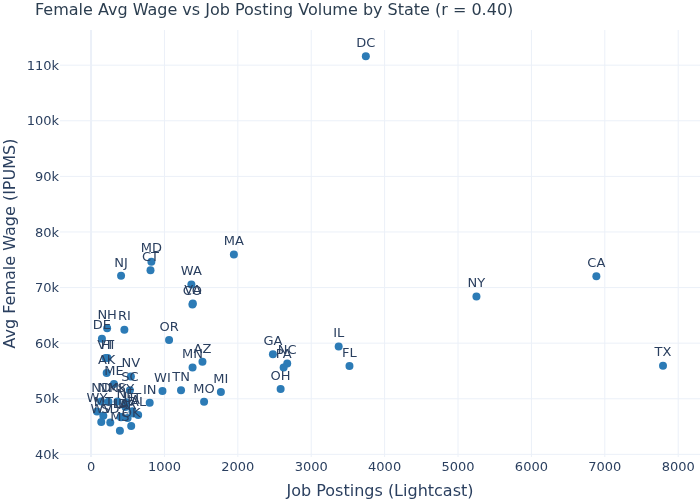
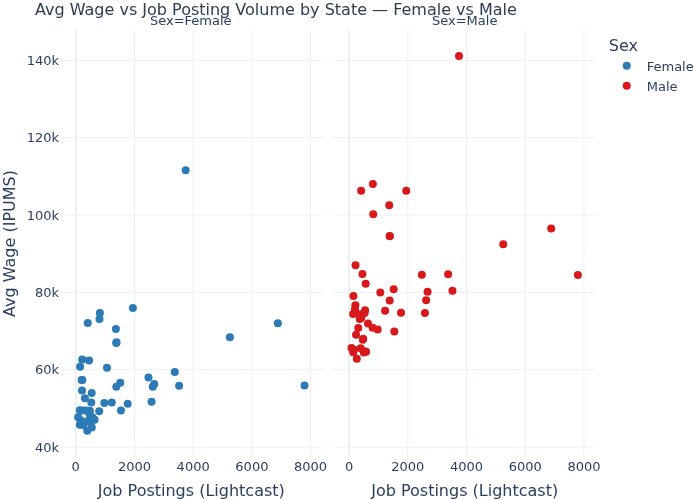
feat: Section C male/female side-by-side scatter, move cross-state logic to utils

diff --git a/analysis/utils.py b/analysis/utils.py
@@ -85,6 +85,34 @@ def load_location() -> pd.DataFrame:
 # Teammates add their own load_*() here
 # Follow same pattern: _base_load() + specific cleaning
 
+
+# ── 10. build_cross_state() — Julie ───────────────────
+_STATE_ABBREV = {
+    "Alabama":"AL","Alaska":"AK","Arizona":"AZ","Arkansas":"AR","California":"CA",
+    "Colorado":"CO","Connecticut":"CT","Delaware":"DE","District of Columbia":"DC",
+    "Florida":"FL","Georgia":"GA","Hawaii":"HI","Idaho":"ID","Illinois":"IL",
+    "Indiana":"IN","Iowa":"IA","Kansas":"KS","Kentucky":"KY","Louisiana":"LA",
+    "Maine":"ME","Maryland":"MD","Massachusetts":"MA","Michigan":"MI","Minnesota":"MN",
+    "Mississippi":"MS","Missouri":"MO","Montana":"MT","Nebraska":"NE","Nevada":"NV",
+    "New Hampshire":"NH","New Jersey":"NJ","New Mexico":"NM","New York":"NY",
+    "North Carolina":"NC","North Dakota":"ND","Ohio":"OH","Oklahoma":"OK","Oregon":"OR",
+    "Pennsylvania":"PA","Rhode Island":"RI","South Carolina":"SC","South Dakota":"SD",
+    "Tennessee":"TN","Texas":"TX","Utah":"UT","Vermont":"VT","Virginia":"VA",
+    "Washington":"WA","West Virginia":"WV","Wisconsin":"WI","Wyoming":"WY"
+}
+
+def build_cross_state(df_emp: pd.DataFrame, df_jobs_state: pd.DataFrame) -> pd.DataFrame:
+    """Merge IPUMS wage by state+sex with Lightcast posting count by state."""
+    wage = (df_emp.groupby(["STATE_NAME", "SEX_LABEL"])["INCWAGE"]
+            .mean().reset_index()
+            .rename(columns={"INCWAGE": "AVG_WAGE"}))
+    wage["STATE_CODE"] = wage["STATE_NAME"].map(_STATE_ABBREV)
+
+    posting_count = (df_jobs_state.groupby("STATE_CODE")
+                     .size().reset_index(name="POSTING_COUNT"))
+
+    return wage.merge(posting_count, on="STATE_CODE").dropna()
+
 # ── 9. save_fig() ─────────────────────────────
 def save_fig(fig, filename_stem: str) -> None:
     apply_theme(fig)